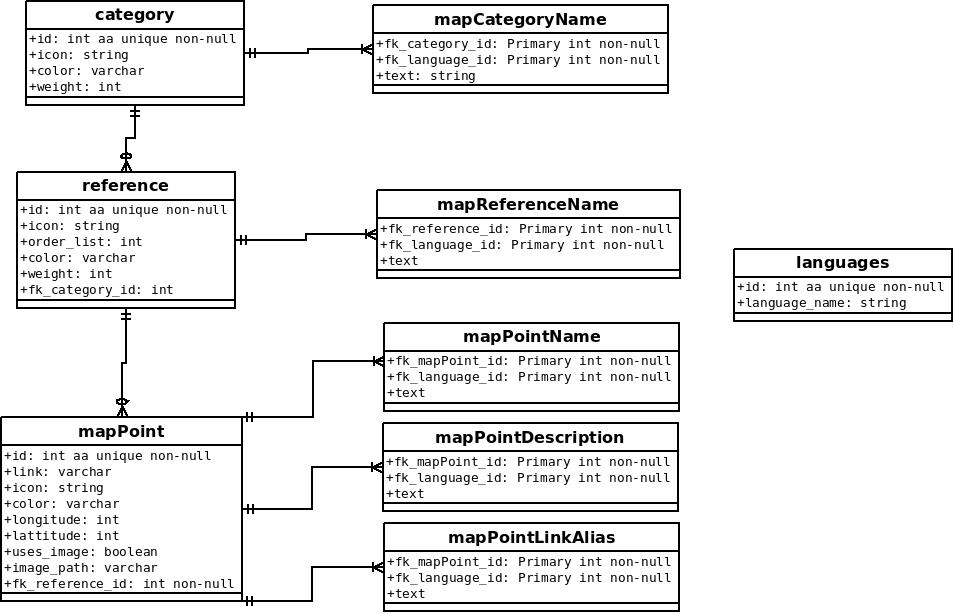
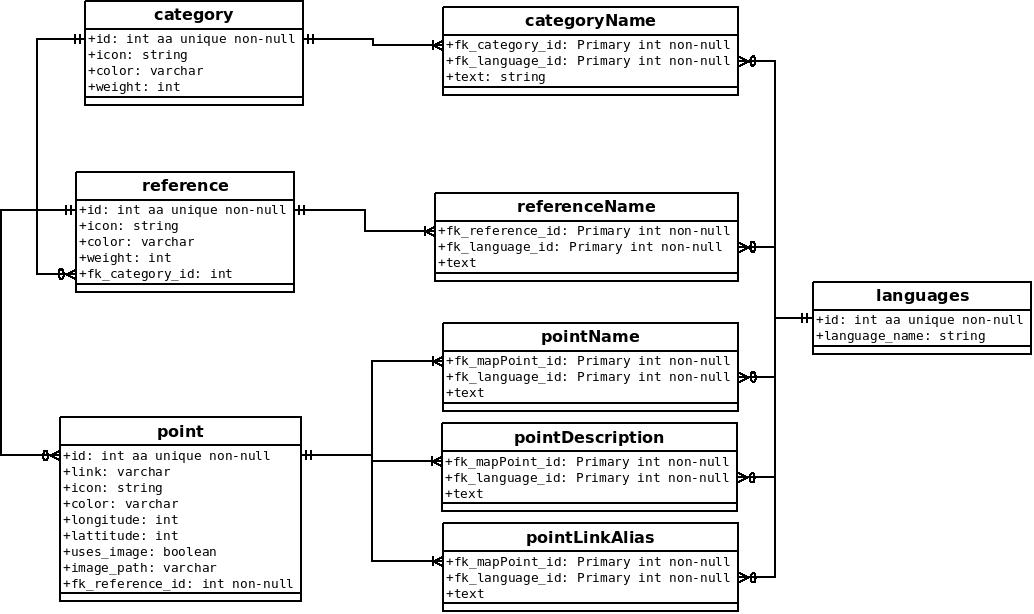
creation of migrations completed

diff --git a/database/migrations/2018_07_09_111313_create_languages_table.php b/database/migrations/2018_07_09_111313_create_languages_table.php
@@ -4,7 +4,7 @@ use Illuminate\Support\Facades\Schema;
 use Illuminate\Database\Schema\Blueprint;
 use Illuminate\Database\Migrations\Migration;
 
-class CreatePointsTable extends Migration
+class CreateLanguagesTable extends Migration
 {
     /**
      * Run the migrations.
@@ -13,13 +13,9 @@ class CreatePointsTable extends Migration
      */
     public function up()
     {
-        Schema::create('points', function (Blueprint $table) {
-            $table->increments('id');
+        Schema::create('languages', function (Blueprint $table) {
+            $table->increments('id')->unique();
             $table->string('name');
-            $table->string('email')->unique();
-            $table->string('password');
-            $table->rememberToken();
-            $table->timestamps();
         });
     }
 
@@ -30,6 +26,6 @@ class CreatePointsTable extends Migration
      */
     public function down()
     {
-        Schema::dropIfExists('users');
+        Schema::dropIfExists('languages');
     }
 }

diff --git a/database/migrations/2018_07_09_100632_create_points_table.php b/database/migrations/2018_07_09_100632_create_points_table.php
@@ -1,0 +1,38 @@
+<?php
+
+use Illuminate\Support\Facades\Schema;
+use Illuminate\Database\Schema\Blueprint;
+use Illuminate\Database\Migrations\Migration;
+
+class CreatePointsTable extends Migration
+{
+    /**
+     * Run the migrations.
+     *
+     * @return void
+     */
+    public function up()
+    {
+        Schema::create('points', function (Blueprint $table) {
+            $table->increments('id')->unique();
+            $table->string('link');
+            $table->string('icon');
+            $table->string('color');
+            $table->float('longitude', 8, 2);
+            $table->float('lattitude', 8, 2);
+            $table->boolean('uses_image');
+            $table->string('image_path');
+            $table->integer('fk_reference_id');
+        });
+    }
+
+    /**
+     * Reverse the migrations.
+     *
+     * @return void
+     */
+    public function down()
+    {
+        Schema::dropIfExists('points');
+    }
+}

diff --git a/database/migrations/2018_07_09_100656_create_references_table.php b/database/migrations/2018_07_09_100656_create_references_table.php
@@ -1,0 +1,34 @@
+<?php
+
+use Illuminate\Support\Facades\Schema;
+use Illuminate\Database\Schema\Blueprint;
+use Illuminate\Database\Migrations\Migration;
+
+class CreateReferencesTable extends Migration
+{
+    /**
+     * Run the migrations.
+     *
+     * @return void
+     */
+    public function up()
+    {
+        Schema::create('references', function (Blueprint $table) {
+            $table->increments('id')->unique();
+            $table->string('icon');
+            $table->string('color');
+            $table->integer('weight');
+            $table->integer('fk_category_id');
+        });
+    }
+
+    /**
+     * Reverse the migrations.
+     *
+     * @return void
+     */
+    public function down()
+    {
+        Schema::dropIfExists('references');
+    }
+}

diff --git a/database/migrations/2018_07_09_111842_create_pointDescription_table.php b/database/migrations/2018_07_09_111842_create_pointDescription_table.php
@@ -1,0 +1,32 @@
+<?php
+
+use Illuminate\Support\Facades\Schema;
+use Illuminate\Database\Schema\Blueprint;
+use Illuminate\Database\Migrations\Migration;
+
+class CreatePointDescriptionTable extends Migration
+{
+    /**
+     * Run the migrations.
+     *
+     * @return void
+     */
+    public function up()
+    {
+        Schema::create('pointDescription', function (Blueprint $table) {
+            $table->integer('fk_point_id')->unique();
+            $table->integer('fk_language_id')->unique();
+            $table->string('text');
+        });
+    }
+
+    /**
+     * Reverse the migrations.
+     *
+     * @return void
+     */
+    public function down()
+    {
+        Schema::dropIfExists('pointDescription');
+    }
+}

diff --git a/database/migrations/2018_07_09_100706_create_categories_table.php b/database/migrations/2018_07_09_100706_create_categories_table.php
@@ -1,0 +1,33 @@
+<?php
+
+use Illuminate\Support\Facades\Schema;
+use Illuminate\Database\Schema\Blueprint;
+use Illuminate\Database\Migrations\Migration;
+
+class CreateCategoriesTable extends Migration
+{
+    /**
+     * Run the migrations.
+     *
+     * @return void
+     */
+    public function up()
+    {
+        Schema::create('categories', function (Blueprint $table) {
+            $table->increments('id')->unique();
+            $table->string('icon');
+            $table->string('color');
+            $table->integer('weight');
+        });
+    }
+
+    /**
+     * Reverse the migrations.
+     *
+     * @return void
+     */
+    public function down()
+    {
+        Schema::dropIfExists('categories');
+    }
+}

diff --git a/database/migrations/2018_07_09_111536_create_referenceName_table.php b/database/migrations/2018_07_09_111536_create_referenceName_table.php
@@ -1,0 +1,32 @@
+<?php
+
+use Illuminate\Support\Facades\Schema;
+use Illuminate\Database\Schema\Blueprint;
+use Illuminate\Database\Migrations\Migration;
+
+class CreateReferenceNameTable extends Migration
+{
+    /**
+     * Run the migrations.
+     *
+     * @return void
+     */
+    public function up()
+    {
+        Schema::create('referenceName', function (Blueprint $table) {
+            $table->integer('fk_reference_id')->unique();
+            $table->integer('fk_language_id')->unique();
+            $table->string('text');
+        });
+    }
+
+    /**
+     * Reverse the migrations.
+     *
+     * @return void
+     */
+    public function down()
+    {
+        Schema::dropIfExists('referenceName');
+    }
+}

diff --git a/database/migrations/2018_07_09_111855_create_pointLinkAlias_table.php b/database/migrations/2018_07_09_111855_create_pointLinkAlias_table.php
@@ -1,0 +1,32 @@
+<?php
+
+use Illuminate\Support\Facades\Schema;
+use Illuminate\Database\Schema\Blueprint;
+use Illuminate\Database\Migrations\Migration;
+
+class CreatePointLinkAliasTable extends Migration
+{
+    /**
+     * Run the migrations.
+     *
+     * @return void
+     */
+    public function up()
+    {
+        Schema::create('pointLinkAlias', function (Blueprint $table) {
+            $table->integer('fk_point_id')->unique();
+            $table->integer('fk_language_id')->unique();
+            $table->string('text');
+        });
+    }
+
+    /**
+     * Reverse the migrations.
+     *
+     * @return void
+     */
+    public function down()
+    {
+        Schema::dropIfExists('pointLinkAlias');
+    }
+}

diff --git a/database/migrations/2018_07_09_111801_create_categoryName_table.php b/database/migrations/2018_07_09_111801_create_categoryName_table.php
@@ -1,0 +1,32 @@
+<?php
+
+use Illuminate\Support\Facades\Schema;
+use Illuminate\Database\Schema\Blueprint;
+use Illuminate\Database\Migrations\Migration;
+
+class CreateCategoryNameTable extends Migration
+{
+    /**
+     * Run the migrations.
+     *
+     * @return void
+     */
+    public function up()
+    {
+        Schema::create('categoryName', function (Blueprint $table) {
+            $table->integer('fk_category_id')->unique();
+            $table->integer('fk_language_id')->unique();
+            $table->string('text');
+        });
+    }
+
+    /**
+     * Reverse the migrations.
+     *
+     * @return void
+     */
+    public function down()
+    {
+        Schema::dropIfExists('categoryName');
+    }
+}

diff --git a/database/migrations/2018_07_09_111821_create_pointName_table.php b/database/migrations/2018_07_09_111821_create_pointName_table.php
@@ -1,0 +1,32 @@
+<?php
+
+use Illuminate\Support\Facades\Schema;
+use Illuminate\Database\Schema\Blueprint;
+use Illuminate\Database\Migrations\Migration;
+
+class CreatePointNameTable extends Migration
+{
+    /**
+     * Run the migrations.
+     *
+     * @return void
+     */
+    public function up()
+    {
+        Schema::create('pointName', function (Blueprint $table) {
+            $table->integer('fk_point_id')->unique();
+            $table->integer('fk_language_id')->unique();
+            $table->string('text');
+        });
+    }
+
+    /**
+     * Reverse the migrations.
+     *
+     * @return void
+     */
+    public function down()
+    {
+        Schema::dropIfExists('pointName');
+    }
+}

diff --git a/readme.md b/readme.md
@@ -1,8 +1,38 @@
+use :
+
 cd exercises/july_laravel_vuejs/map_application
 
 php artisan serve
 
 npm run watch
+
+Installation :
+
+Clone repository:
+
+    git clone git@github.com:AdrienMariez/map_application.git
+
+Go in the folder:
+
+    cd map_application
+
+Install all laravel dependencies:
+
+    composer install
+
+Modify .env file for Db structure :
+
+    cp .env.example .env
+
+    Modify DB_* value in .env with your database config.
+
+Generate application key:
+
+    php artisan key:generate
+
+Run migration table:
+
+    php artisan migrate
 
 Need to see :
     http://www.ign.fr/institut/actus/choisir-services-en-ligne-geoportail
@@ -20,6 +50,11 @@ Sources :
         https://github.com/herusdianto/laravel-vue-crud
         https://github.com/anthonygore/vue-laravel-crud
         https://github.com/vicmars5/skycatch-challenge
+
+    database structure for languages :
+        https://www.apphp.com/tutorials/index.php?page=multilanguage-database-design-in-mysql
+    database multiple rows as primary :
+        https://stackoverflow.com/questions/1110349/how-can-i-define-a-composite-primary-key-in-sql
 
 <p align="center"><img src="https://laravel.com/assets/img/components/logo-laravel.svg"></p>
 
